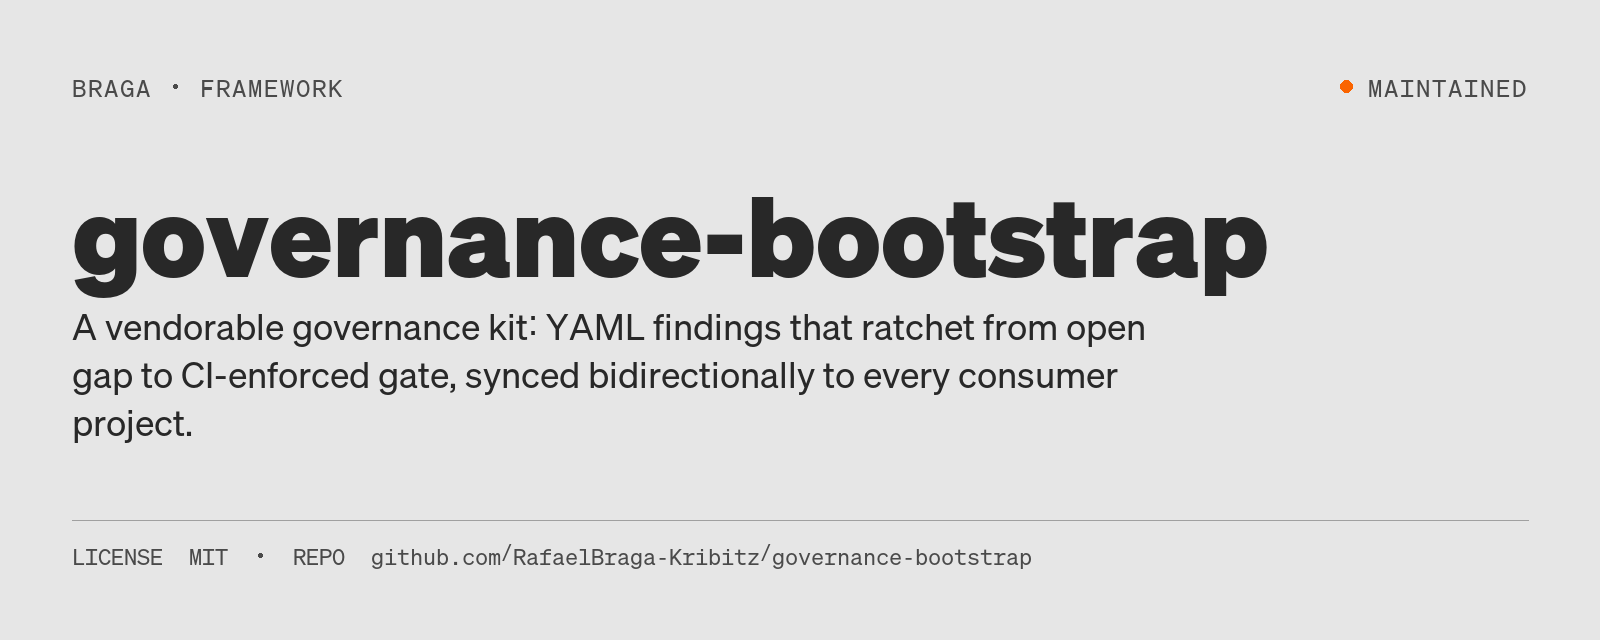
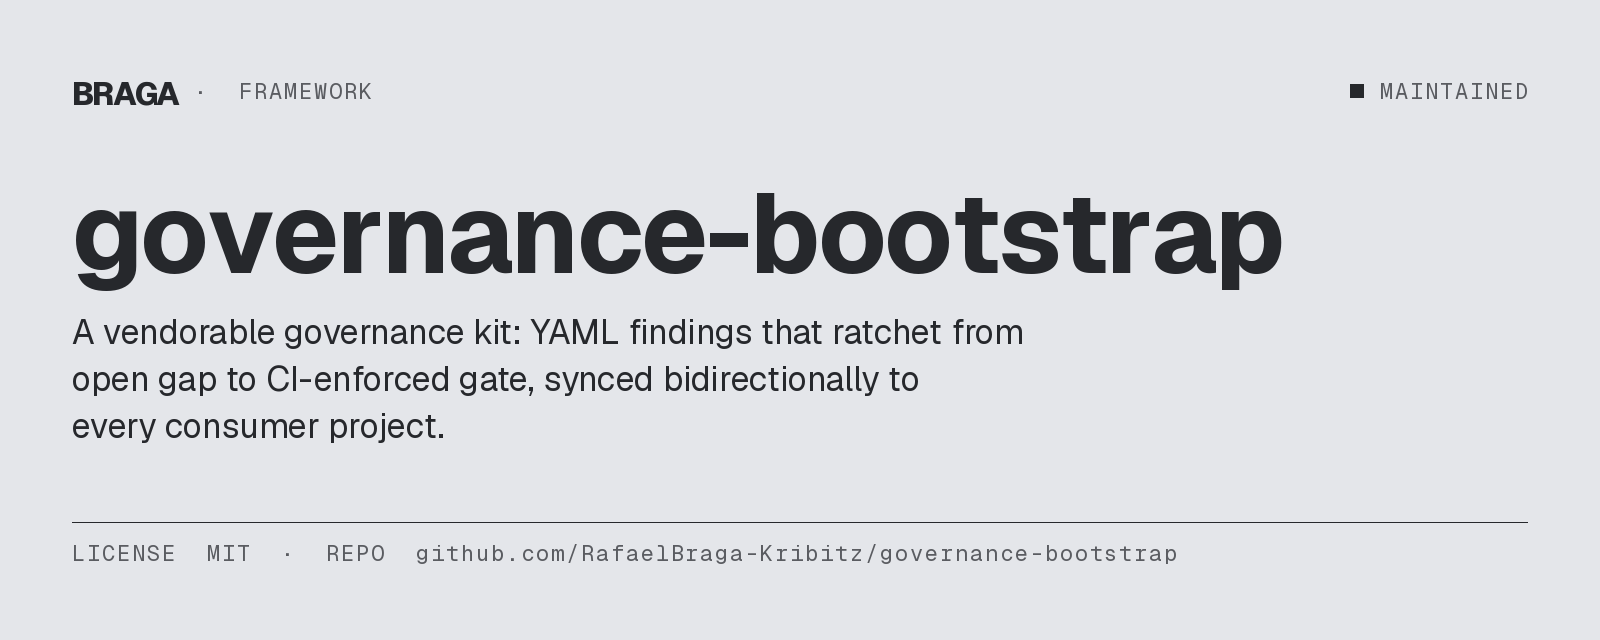
Squashed 'governance/_kit/' changes from f6de0fc..cb7c2c7
cb7c2c7 README: Mermaid theme directive on one line (#7)
50b8924 Merge pull request #6 from RafaelBraga-Kribitz/claude/ds-v2.1
777c607 Merge remote-tracking branch 'origin/main' into claude/ds-v2.1
a0ebb09 README on the Braga design system v2.1
001c59d Merge pull request #5 from RafaelBraga-Kribitz/claude/portfolio-polish-2026-10-26
55d9673 docs(readme): add Stack and Versioning sections, expand acronyms

git-subtree-dir: governance/_kit
git-subtree-split: cb7c2c7eae7548d5fdb5fa5eb5553a7704cf0a81

diff --git a/README.md b/README.md
@@ -1,15 +1,16 @@
 # governance-bootstrap
 
-![governance-bootstrap — A vendorable governance kit: YAML findings that ratchet from open gap to CI-enforced gate, synced bidirectionally to every consumer project.](docs/assets/hero.png)
+![governance-bootstrap: a vendorable governance kit: YAML findings that ratchet from open gap to CI-enforced gate, synced bidirectionally to every consumer project.](docs/assets/hero.png)
 
-[![License: MIT](https://img.shields.io/badge/License-MIT-yellow.svg)](LICENSE)
-[![Status: Maintained](https://img.shields.io/badge/status-Maintained-brightgreen)](#status)
+[![License: MIT](https://img.shields.io/badge/License-MIT-5A5C61?labelColor=26282C)](LICENSE)
+[![Status: Maintained](https://img.shields.io/badge/status-Maintained-5A5C61?labelColor=26282C)](#status)
 
 **Status:** Maintained
 
-LLM coding sessions invent a new audit, declare the work closed, and leave no machine-readable state. This kit turns each recurrence-prone problem into a YAML finding that ratchets from an open gap to a CI-enforced gate, then vendors that discipline into the projects that subscribe to it.
+Coding sessions with a large language model (LLM) agent invent a new audit, declare the work closed, and leave no machine-readable state. This kit turns each recurrence-prone problem into a YAML finding that ratchets from an open gap to a CI-enforced gate, then vendors that discipline into the projects that subscribe to it.
 
 ```mermaid
+%%{init: {"theme":"base","fontFamily":"BKribitz, system-ui, -apple-system, Segoe UI, Helvetica, Arial, sans-serif","themeVariables":{"background":"#E4E6EA","primaryColor":"#DCDEE2","primaryTextColor":"#26282C","primaryBorderColor":"#26282C","secondaryColor":"#E4E6EA","secondaryTextColor":"#26282C","secondaryBorderColor":"#5A5C61","tertiaryColor":"#E4E6EA","tertiaryTextColor":"#26282C","tertiaryBorderColor":"#C2C4CA","lineColor":"#5A5C61","textColor":"#26282C","mainBkg":"#DCDEE2","nodeBorder":"#26282C","clusterBkg":"#E4E6EA","clusterBorder":"#C2C4CA","edgeLabelBackground":"#E4E6EA","titleColor":"#26282C","fontFamily":"BKribitz, system-ui, -apple-system, Segoe UI, Helvetica, Arial, sans-serif","fontSize":"14px"},"flowchart":{"curve":"linear","htmlLabels":true,"padding":8}}}%%
 flowchart TD
     open["open: script reports GAP<br/>CI stays green"]
     closed["closed: same script is a hard gate"]
@@ -22,7 +23,7 @@ flowchart TD
 
 ## The idea
 
-Every recurrence-prone problem becomes a YAML file under `governance/findings/`. Each YAML names a `verification_script`. While the finding is `open` the script reports `[GAP]` and CI stays green; the moment status flips to `closed`, the same script becomes a hard CI gate — regressing it fails the PR and reopens the finding automatically.
+Every recurrence-prone problem becomes a YAML file under `governance/findings/`. Each YAML names a `verification_script`. While the finding is `open` the script reports `[GAP]` and CI stays green; the moment status flips to `closed`, the same script becomes a hard continuous-integration (CI) gate: regressing it fails the pull request (PR) and reopens the finding automatically.
 
 Three roles operate the queue: the **Steward** (read state, regenerate the session handout), the **Remediator** (one finding per PR), and the **Adversary** (re-verifies every closed finding on every PR). The methodology is documented in `templates/AUDIT_PROCEDURE.md` and the agent protocol in `templates/CLAUDE.md`.
 
@@ -40,7 +41,7 @@ What gets gated out of the box:
 | Cyclomatic complexity | `check_complexity.py` | `F-COMPLEXITY-VIOLATION` |
 | File + function line budgets | `check_module_sizes.py` | `F-MODULE-SIZE` |
 | Dependency layer rules | `check_dependency_structure.py` | `F-DEPENDENCY-VIOLATION` |
-| CRAP score (C²·(1−COV)³+C) | `check_crap_score.py` | `F-CRAP-SCORE` |
+| CRAP score, Change Risk Anti-Patterns (C²·(1−COV)³+C) | `check_crap_score.py` | `F-CRAP-SCORE` |
 
 Thresholds live in `templates/config/quality_gates.yaml` and are themselves registered in `templates/config/parameter_registry.yaml`. `make baseline` discovers the project's current values; `make audit` enforces them.
 
@@ -48,8 +49,8 @@ Thresholds live in `templates/config/quality_gates.yaml` and are themselves regi
 
 | Path | Start here |
 |---|---|
-| Fast path | [The idea](#the-idea) — the open → closed → CI-enforced ratchet |
-| Deep path | [Architecture](#architecture) + [`CONSUMER_SETUP.md`](CONSUMER_SETUP.md) — how the kit vendors and stays in sync |
+| Fast path | [The idea](#the-idea): the open → closed → CI-enforced ratchet |
+| Deep path | [Architecture](#architecture) + [`CONSUMER_SETUP.md`](CONSUMER_SETUP.md): how the kit vendors and stays in sync |
 
 ## Quick start
 
@@ -66,7 +67,7 @@ git subtree add --prefix=governance/_kit gov-upstream main --squash
 cp governance/_kit/templates/.github/workflows/sync-from-upstream.yml .github/workflows/
 cp governance/_kit/templates/.github/workflows/propose-upstream.yml   .github/workflows/
 
-# 3. Add a fine-grained PAT as GOV_SYNC_TOKEN secret in your repo settings
+# 3. Add a fine-grained personal access token (PAT) as GOV_SYNC_TOKEN secret in your repo settings
 #    (Contents: write, Pull requests: write on this repo + the hub repo)
 gh secret set GOV_SYNC_TOKEN < /path/to/pat.txt
 ```
@@ -97,6 +98,7 @@ project-a/                          Mode A — vendored (recommended)
 ```
 
 ```mermaid
+%%{init: {"theme":"base","fontFamily":"BKribitz, system-ui, -apple-system, Segoe UI, Helvetica, Arial, sans-serif","themeVariables":{"background":"#E4E6EA","primaryColor":"#DCDEE2","primaryTextColor":"#26282C","primaryBorderColor":"#26282C","secondaryColor":"#E4E6EA","secondaryTextColor":"#26282C","secondaryBorderColor":"#5A5C61","tertiaryColor":"#E4E6EA","tertiaryTextColor":"#26282C","tertiaryBorderColor":"#C2C4CA","lineColor":"#5A5C61","textColor":"#26282C","mainBkg":"#DCDEE2","nodeBorder":"#26282C","clusterBkg":"#E4E6EA","clusterBorder":"#C2C4CA","edgeLabelBackground":"#E4E6EA","titleColor":"#26282C","fontFamily":"BKribitz, system-ui, -apple-system, Segoe UI, Helvetica, Arial, sans-serif","fontSize":"14px"},"flowchart":{"curve":"linear","htmlLabels":true,"padding":8}}}%%
 flowchart TB
     hub["governance-bootstrap<br/>templates/ · scripts/ · consumers.yaml"]
     fanout["fanout-update.yml<br/>on tag v*.*.*"]
@@ -115,6 +117,13 @@ flowchart TB
 **Upstream (any consumer → hub → other consumers).** A developer fixes a bug in `governance/_kit/scripts/check_x.py` while working in project A. After landing the fix locally, they run **Actions → Propose change to governance kit**, providing a PR title and motivation. `propose-upstream.yml` clones the hub, rsyncs the consumer's `_kit/` contents over the hub root, and opens a PR back here. Once reviewed and merged here → tag → fanout → projects B and C see a sync PR.
 
 Every change to `main` should be tagged `vX.Y.Z` to trigger fanout. Until the first real release, manual `workflow_dispatch` of `fanout-update.yml` with `ref: main` is the way to push updates.
+
+## Versioning
+
+There is no release tag yet, so the subtree commands above track `main`. The release
+model is in place: a tag `vX.Y.Z` on this repository triggers `fanout-update.yml`, and
+each consumer's sync pull request names the tag it pulls. Until the first tag, updates
+go out through a manual `workflow_dispatch` of `fanout-update.yml` with `ref: main`.
 
 ## Repository structure
 
@@ -137,6 +146,16 @@ Every change to `main` should be tagged `vX.Y.Z` to trigger fanout. Until the fi
     └── .github/workflows/       ← governance.yml + bidirectional sync
 ```
 
+## Stack
+
+| Technology | Role |
+|---|---|
+| Python 3.11 with PyYAML | Gate scripts in `templates/scripts/` and the finding YAML files |
+| radon, coverage.py, import-linter | Complexity, coverage, CRAP score and dependency-layer gates; each script prints `[SKIP]` when its tool is missing |
+| pytest | Ratchet tests under `templates/tests/governance/` |
+| GNU Make | `templates/Makefile.governance`: `audit`, `verify`, `baseline`, session targets |
+| GitHub Actions and `git subtree` | Consumer CI (`governance.yml`) and the two-way sync between this hub and its consumers |
+
 ## Limitations
 
 - This is a **vendored kit**, not a hosted service. Consumers must install the subtree, workflows, and `GOV_SYNC_TOKEN` themselves; nothing arrives by cloning this repo alone.
@@ -157,7 +176,7 @@ Repository last updated 2026-09-16 (date of the last commit).
 
 ## License
 
-MIT — see [`LICENSE`](LICENSE).
+MIT. See [`LICENSE`](LICENSE).
 
 ## Author
 
